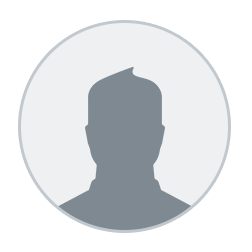
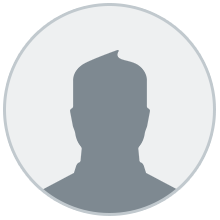
changes

diff --git a/src/components/sections/scoreboard/scoreBoardRender.tsx b/src/components/sections/scoreboard/scoreBoardRender.tsx
@@ -35,7 +35,7 @@ export function ScoreboardRender(props: ScoreBoardRenderProps) {
         >
           <div className="bg-[#2D2D2D] p-2 border border-white rounded-xl flex flex-col justify-center items-center">
             <span className="text-center text-white md:text-xl text-base">Time Left (mins):</span>
-            <strong className="text-center text-white md:text-7xl text-4xl leading-[1]">
+            <strong className="text-center text-white lg:text-7xl text-4xl leading-[1]">
               {formatTime(props.timeLeft)}
             </strong>
           </div>
@@ -68,22 +68,20 @@ export function ScoreboardRender(props: ScoreBoardRenderProps) {
 
       {props.state.tournamentId === null ? (
         <div
-          className={clsx(
-            'absolute left-1/2 transform -translate-x-1/2 z-40 flex justify-center items-center',
-            {
-              '-rotate-90 -top-14': props.orientation === 'portrait',
-              'bottom-[6%]': props.orientation === 'landscape',
-            },
-          )}
+          className={clsx('absolute left-1/2 transform -translate-x-1/2 z-40 flex justify-center items-center', {
+            '-rotate-90 -top-14': props.orientation === 'portrait',
+            'bottom-[6%]': props.orientation === 'landscape',
+          })}
         >
           <div className="bg-[#2D2D2D] p-2 border border-white rounded-xl flex flex-col justify-center items-center">
             <strong
               className={clsx('text-center text-white leading-[1]', {
-                'text-6xl': props.orientation === 'landscape',
+                'lg:text-7xl text-4xl': props.orientation === 'landscape',
                 'md:text-6xl text-2xl flex flex-col': props.orientation === 'portrait',
               })}
             >
-              <span>{props.state.teamOneScore}</span>{' - '}
+              <span>{props.state.teamOneScore}</span>
+              {' - '}
               <span>{props.state.teamTwoScore}</span>
             </strong>
           </div>

diff --git a/src/components/sections/scoreboard/scoreBoardTeamCard.tsx b/src/components/sections/scoreboard/scoreBoardTeamCard.tsx
@@ -39,7 +39,7 @@ export function ScoreBoardTeamCard(props: ScoreBoardTeamCardProps) {
     >
       {props.tournamentId === null ? (
         <div
-          className={clsx(`flex justify-center items-center gap-2`, {
+          className={clsx(`flex justify-center items-center gap-2 overflow-auto`, {
             'h-[30%]': props.contentfrom === 'top',
             'w-[30%]': props.contentfrom === 'left',
           })}
@@ -118,7 +118,7 @@ export function ScoreBoardTeamCard(props: ScoreBoardTeamCardProps) {
             'h-[30%] w-full': props.contentfrom === 'top',
             'w-[60%] h-full flex justify-center items-center': props.contentfrom === 'left',
           })}
-          style={{ fontSize: props.contentfrom === 'top' ? 'clamp(1rem, 10vw, 10rem)' : 'clamp(1rem, 20vh, 30rem)' }}
+          style={{ fontSize: props.contentfrom === 'top' ? 'clamp(0.5rem, 8vw, 10rem)' : 'clamp(1rem, 20vh, 30rem)' }}
         >
           <span
             className={clsx({
@@ -134,7 +134,7 @@ export function ScoreBoardTeamCard(props: ScoreBoardTeamCardProps) {
             'h-[20%] w-full py-2 flex justify-center items-center': props.contentfrom === 'top',
             'w-[20%] h-full flex justify-center items-center': props.contentfrom === 'left',
           })}
-          style={{ fontSize: props.contentfrom === 'top' ? 'clamp(1rem, 3vw, 4rem)' : 'clamp(1rem, 10vh, 2rem)' }}
+          style={{ fontSize: props.contentfrom === 'top' ? 'clamp(1rem, 2vw, 4rem)' : 'clamp(1rem, 10vh, 2rem)' }}
         >
           {(isPlayerOneActive || isPlayerTwoActive) && props.activeTurn ? (
             <span

diff --git a/src/components/sections/scoring/snookerPointTypesDisplay.tsx b/src/components/sections/scoring/snookerPointTypesDisplay.tsx
@@ -80,7 +80,7 @@ export function SnookerPointTypeDisplay(props: SnookerPointTypeDisplayProps) {
                   'h-8 w-8': props.isBig,
                   'h-4 w-4': !props.isBig,
                   'text-[0.5rem]': !props.isBig,
-                  'w-[5%] h-auto aspect-square': props.scaleBasedOnheight
+                  'h-[2vh] w-[2vh] aspect-square': props.scaleBasedOnheight
                 },
               )}
             >
